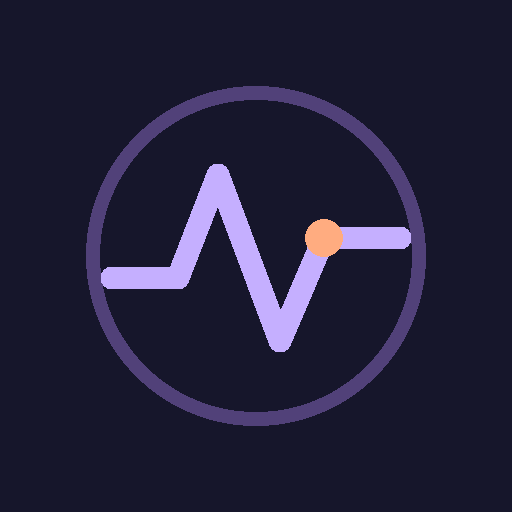
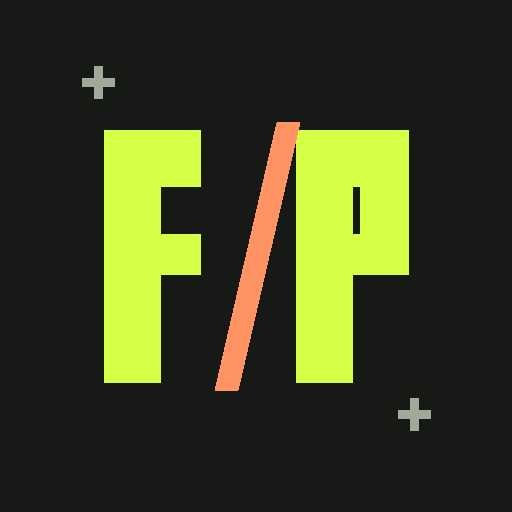
Redesign as a compact high-contrast pocket instrument

Changed region(s): [[0.1562, 0.1562, 0.8438, 0.8438], [0.7812, 0.7812, 0.8438, 0.8438], [0.1562, 0.125, 0.2188, 0.1875]]

diff --git a/style.css b/style.css
@@ -1,3 +1,7 @@
-:root{color-scheme:light;--ink:#20203e;--muted:#6d6883;--paper:#f4f2ff;--gold:#ae4326;--line:#dcd8eb;--green:#6243bc;font-family:system-ui,-apple-system,BlinkMacSystemFont,"Segoe UI",sans-serif;color:var(--ink);background:var(--paper)}*{box-sizing:border-box}body{margin:0;background:radial-gradient(ellipse at 90% 0%,#e0d8ff 0,transparent 55%);min-height:100svh}main{max-width:620px;margin:auto;padding:max(26px,env(safe-area-inset-top)) 22px max(24px,env(safe-area-inset-bottom))}header{display:flex;align-items:center;justify-content:space-between;margin-bottom:42px}.brand{font-weight:800;font-size:30px;letter-spacing:-1.5px;text-decoration:none;color:var(--ink)}.brand-mark{display:inline-grid;place-items:center;background:var(--ink);color:var(--paper);width:33px;height:36px;border-radius:10px;margin-right:10px;font-size:27px}.brand-dot{color:var(--gold)}.eyebrow{font-size:10px;letter-spacing:1.8px;font-weight:700}header>.eyebrow{color:var(--muted);font-size:9px}h1{font-family:Georgia,serif;font-size:clamp(35px,7vw,48px);font-weight:400;line-height:1.12;letter-spacing:-1.5px;margin:12px 0 30px}h1 em{color:var(--green);font-weight:400}.intro>.eyebrow{color:var(--gold)}nav{display:flex;background:#e6e1f3;padding:5px;border-radius:15px;margin-bottom:18px;gap:4px}button,input,select{-webkit-tap-highlight-color:transparent;font:inherit}button{cursor:pointer;touch-action:manipulation}button:focus-visible,input:focus-visible,select:focus-visible,a:focus-visible{outline:3px solid var(--gold);outline-offset:4px}.tab{width:50%;border:0;background:none;border-radius:11px;min-height:46px;font-weight:650;color:var(--muted)}.tab.active{background:var(--ink);color:#fff;box-shadow:0 3px 7px #20203e20}.panel{background:#fefcff;border:1px solid var(--line);padding:26px;border-radius:24px;box-shadow:0 12px 38px #20203e08}[hidden]{display:none!important}.beats{height:20px;display:flex;justify-content:center;gap:9px;margin:2px 0 24px}.beat{width:13px;height:13px;border-radius:50%;background:#e6e0f3;transition:background .06s,transform .06s}.beat.down{border:2px solid var(--gold)}.beat.on{background:var(--green);transform:scale(1.3)}.beat.down.on{background:var(--gold)}.tempo{display:flex;justify-content:space-between;align-items:center}.tempo>div{text-align:center}.tempo label{display:block;font-size:9px;letter-spacing:1.4px}.tempo input{display:block;width:160px;padding:0;text-align:center;border:0;background:none;font-size:84px;letter-spacing:-5px;line-height:1.2;font-weight:300;color:var(--ink);appearance:textfield;-moz-appearance:textfield}.tempo input::-webkit-inner-spin-button{appearance:none}.tempo #tempo-word{font-family:Georgia,serif;font-style:italic;color:var(--muted);font-size:17px}.round{border:1px solid var(--line);width:46px;height:46px;border-radius:50%;font-size:25px;color:var(--ink);background:transparent}input[type=range]{width:100%;accent-color:var(--green);margin:25px 0;height:32px}.settings{display:grid;grid-template-columns:1fr 1fr;gap:14px}.settings label{font-size:12px;color:var(--muted);font-weight:550;min-width:0}.settings select,.settings input{margin-top:8px;width:100%;height:48px;border:1px solid var(--line);border-radius:10px;background:#f5f2fc;padding:0 9px;color:var(--ink);font-size:16px;min-width:0}.check{font-size:12px;display:flex;align-items:center;gap:7px;flex-wrap:wrap;margin:18px 0 24px}.check input{accent-color:var(--green);width:18px;height:18px}.check span{font-size:10px;color:var(--muted);margin-left:auto}.actions{display:grid;grid-template-columns:1fr 1.6fr;gap:12px}.primary,.secondary{min-height:54px;border-radius:12px;font-weight:650;font-size:14px;padding:10px;border:0}.primary{background:var(--green);color:#fff}.primary.running{background:var(--ink)}.secondary{background:#ece7f7;color:var(--ink)}.full{width:100%;margin-top:8px}.hint{font-size:11px;color:var(--muted);line-height:1.6;text-align:center;margin:15px 0 0}.tuner-top{display:flex;justify-content:space-between;align-items:center}.badge{background:#ece7f7;border-radius:20px;padding:6px 9px;font-size:9px;letter-spacing:1px;color:var(--muted)}.note{text-align:center;font-size:93px;font-weight:350;line-height:1.25;margin-top:15px;min-height:116px;letter-spacing:-5px}.note sub{font-size:28px;vertical-align:baseline;letter-spacing:0;color:var(--muted);padding-left:5px}.pitch-detail{height:20px;text-align:center;font-size:13px;color:var(--muted);margin:0 0 24px}.gauge{height:42px;position:relative;border-bottom:1px solid var(--line);background:repeating-linear-gradient(90deg,transparent 0,transparent calc(10% - 1px),var(--line) calc(10% - 1px),var(--line) 10%)}.sweet-spot{position:absolute;left:45%;width:10%;height:100%;background:#e4dafc}.gauge-center{position:absolute;left:50%;height:100%;border-left:1px solid var(--green)}.needle{position:absolute;left:50%;height:48px;top:-4px;width:3px;background:var(--gold);border-radius:3px;transition:left .1s;opacity:0}.gauge-labels{display:flex;justify-content:space-between;font-size:10px;letter-spacing:1px;color:var(--muted);margin-top:10px}.tuning-status{text-align:center;font-weight:600;margin:23px 0}.tuning-status.good{color:var(--green)}.notice{font-size:12px;line-height:1.6;color:var(--gold);text-align:center;min-height:20px}footer{display:flex;align-items:center;justify-content:space-between;color:var(--muted);font-size:9px;letter-spacing:1.4px;margin-top:22px}footer button{background:none;border:0;color:var(--muted);padding:12px 0;font-size:12px;letter-spacing:0}aside{font-size:13px;line-height:1.7;color:var(--muted);border-top:1px solid var(--line);margin-top:20px;padding-top:16px}aside h2{color:var(--ink);font-family:Georgia,serif;font-size:23px;font-weight:400}a{color:var(--green)}.sr-only{position:absolute;width:1px;height:1px;overflow:hidden;clip-path:inset(50%)}@media(max-width:380px){main{padding-left:14px;padding-right:14px}.panel{padding:20px}header>.eyebrow{display:none}.tempo input{width:145px;font-size:76px}.check span{margin-left:0}header{margin-bottom:30px}}
-
-.brand{display:flex;align-items:center;font-size:25px;letter-spacing:-1px}.brand-icon{width:40px;height:40px;margin-right:9px;border-radius:12px}.brand-dot{padding:0 2px}h1{font-family:system-ui,sans-serif;font-weight:750;font-size:clamp(34px,7vw,46px);letter-spacing:-2px}h1 em{font-style:normal}header>.eyebrow{max-width:80px;text-align:right;line-height:1.6}details{margin-top:18px}summary{cursor:pointer;color:var(--green);font-size:13px;padding:14px 0;min-height:44px}details[open] summary{font-weight:700}
+/* A pocket instrument, not a landing page. Ink, signal yellow, registration marks. */
+:root{color-scheme:dark;--ink:#f1f2e9;--muted:#a2a89a;--paper:#171916;--gold:#ff9363;--line:#41483b;--green:#d5ff45;font-family:ui-monospace,SFMono-Regular,Consolas,monospace;color:var(--ink);background:var(--paper)}
+*{box-sizing:border-box}body{margin:0}main{width:min(100%,560px);margin:auto;padding:max(12px,env(safe-area-inset-top)) 18px max(16px,env(safe-area-inset-bottom))}header{display:flex;justify-content:space-between;align-items:center;height:42px;margin-bottom:12px}.brand{display:flex;align-items:center;gap:8px;font-family:system-ui,sans-serif;font-size:19px;font-weight:900;letter-spacing:-1px;color:var(--ink);text-decoration:none}.brand-icon{width:30px;height:30px}.brand-dot{color:var(--green);padding:0 3px}.serial{font-size:7px;line-height:1.5;color:var(--muted);text-align:right;letter-spacing:1px}nav{display:flex;border:1px solid var(--line);margin-bottom:16px}button,input,select{font:inherit;-webkit-tap-highlight-color:transparent}button{touch-action:manipulation;cursor:pointer}button:focus-visible,input:focus-visible,select:focus-visible,a:focus-visible,summary:focus-visible{outline:3px solid var(--gold);outline-offset:3px}.tab{width:50%;min-height:46px;border:0;border-radius:0;color:var(--muted);background:none;font-size:12px;text-transform:uppercase;letter-spacing:1px;font-weight:700}.tab.active{background:var(--green);color:var(--paper)}.tab.active:before{content:'↗ ';font-size:16px}.panel{position:relative;border:1px solid var(--line);border-top:3px solid var(--green);padding:18px;background:#1d211a}.panel:before,.panel:after{content:'+';position:absolute;font-size:16px;color:var(--green);top:-12px;line-height:16px;pointer-events:none}.panel:before{left:-5px}.panel:after{right:-5px}[hidden]{display:none!important}.eyebrow{font-size:10px;letter-spacing:2px;font-weight:600;color:var(--muted)}.beats{height:20px;display:flex;justify-content:center;gap:8px;margin-bottom:12px}.beat{height:10px;flex:1;max-width:54px;background:#434b39;transform:skewX(-20deg);border-bottom:2px solid transparent}.beat.down{border-bottom-color:var(--green)}.beat.on{background:var(--green)}.beat.down.on{background:var(--gold)}.tempo{display:flex;align-items:center;justify-content:space-between;gap:6px}.tempo>div{text-align:center;min-width:0}.tempo label{display:block}.tempo input{display:block;width:190px;text-align:center;background:none;color:var(--green);border:0;padding:0;font-family:system-ui,sans-serif;font-size:112px;font-weight:850;letter-spacing:-9px;line-height:1.1;appearance:textfield;font-variant-numeric:tabular-nums}.tempo input::-webkit-inner-spin-button{appearance:none}#tempo-word{font-size:10px;letter-spacing:3px;text-transform:uppercase;color:var(--muted)}.round{height:48px;width:48px;flex-shrink:0;border:1px solid var(--line);border-radius:0;background:none;color:var(--ink);font-size:26px}input[type=range]{width:100%;height:40px;accent-color:var(--green);margin:10px 0 16px;cursor:pointer}.settings{display:grid;grid-template-columns:1fr 1fr;gap:12px}.settings label{font-size:10px;letter-spacing:.5px;color:var(--muted);min-width:0}.settings select,.settings input{display:block;width:100%;height:46px;margin-top:7px;border:1px solid var(--line);border-radius:0;background:#171916;color:var(--ink);padding:0 8px;font-size:16px;min-width:0}.check{display:flex;flex-wrap:wrap;align-items:center;gap:7px;font-size:11px;margin:12px 0 16px;min-height:32px}.check input{height:22px;width:22px;accent-color:var(--green);margin:0}.check span{color:var(--muted);font-size:9px;margin-left:auto}.actions{display:grid;grid-template-columns:1fr 1.6fr;gap:10px}.primary,.secondary{min-height:56px;border:1px solid var(--line);border-radius:0;padding:10px 7px;font-size:12px;font-weight:750}.primary{background:var(--green);color:#171916;border-color:var(--green)}.primary.running{background:var(--gold);border-color:var(--gold)}.secondary{background:transparent;color:var(--ink)}button:active{filter:brightness(.85)}button:disabled{opacity:.65}.full{width:100%;margin-top:14px}.hint{font-size:10px;line-height:1.5;color:var(--muted);text-align:center;margin:12px 0 0}.tuner-top{display:flex;justify-content:space-between;align-items:center}.badge{color:var(--green);font-size:9px;border:1px solid var(--line);padding:6px}.note{text-align:center;font-family:system-ui,sans-serif;font-size:112px;line-height:1.2;font-weight:850;color:var(--green);letter-spacing:-6px;margin:8px 0 0;min-height:134px}.note sub{font-size:30px;vertical-align:baseline;letter-spacing:0;color:var(--muted);margin-left:5px}.pitch-detail{height:20px;text-align:center;color:var(--muted);font-size:12px;margin:0 0 20px}.gauge{height:44px;position:relative;border-bottom:1px solid var(--line);background:repeating-linear-gradient(90deg,transparent 0,transparent calc(10% - 1px),var(--line) calc(10% - 1px),var(--line) 10%)}.sweet-spot{position:absolute;left:45%;width:10%;height:100%;background:#d5ff4520}.gauge-center{position:absolute;left:50%;height:100%;border-left:1px solid var(--green)}.needle{position:absolute;left:50%;height:50px;top:-3px;width:3px;background:var(--gold);transition:left .1s;opacity:0}.gauge-labels{display:flex;justify-content:space-between;color:var(--muted);font-size:10px;margin-top:8px}.tuning-status{text-align:center;font-size:12px;min-height:32px;margin:18px 0 12px;line-height:1.5}.tuning-status.good{color:var(--green)}.notice{font-size:10px;line-height:1.5;color:var(--gold);text-align:center;margin:10px 0}.notice:empty{display:none}footer{display:flex;align-items:center;gap:14px;border-top:1px solid var(--line);margin-top:24px;padding-top:16px}.footer-mark{font-family:system-ui,sans-serif;letter-spacing:-5px;font-size:52px;font-weight:950;line-height:1;transform:skewY(-7deg);color:var(--green)}.footer-mark span{font-size:25px;vertical-align:top;letter-spacing:0}footer p{font-size:10px;line-height:1.6;letter-spacing:1px}.footer-index{margin-left:auto;font-size:8px;line-height:1.7;color:var(--muted)}details{margin-top:10px}summary{min-height:44px;padding:14px 0;font-size:11px;color:var(--muted);cursor:pointer}aside{font:13px/1.7 system-ui,sans-serif;color:var(--muted);border-top:1px solid var(--line);padding:12px 0}aside h2{font-size:20px;color:var(--ink)}a{color:var(--green)}.sr-only{position:absolute;width:1px;height:1px;overflow:hidden;clip-path:inset(50%)}
+@media(min-width:700px){main{padding-top:32px}.panel{padding:26px}.tempo input{font-size:136px;width:240px}header{margin-bottom:22px}.brand{font-size:23px}nav{margin-bottom:22px}}
+@media(max-height:740px) and (max-width:699px){main{padding-top:max(8px,env(safe-area-inset-top));padding-left:14px;padding-right:14px}header{height:34px;margin-bottom:8px}nav{margin-bottom:12px}.panel{padding:14px}.beats{margin-bottom:6px;height:16px}.tempo input{font-size:90px;width:164px}input[type=range]{margin:6px 0 10px;height:32px}.check{margin:8px 0 10px}.hint{margin-top:8px;font-size:9px}.note{font-size:96px;min-height:116px}.pitch-detail{margin-bottom:12px}.tuning-status{margin-top:12px}.full{margin-top:10px}footer{margin-top:16px}}
+@media(max-width:350px){.brand{font-size:16px}.serial{font-size:6px}.tempo input{font-size:82px;width:144px;letter-spacing:-7px}.round{width:44px;height:44px}.check span{margin-left:29px}.actions{grid-template-columns:1fr 1.35fr}.primary,.secondary{font-size:11px}.settings{gap:8px}}
+@media(prefers-reduced-motion:reduce){*{transition:none!important}}

diff --git a/index.html b/index.html
@@ -2,7 +2,7 @@
 <html lang="en">
 <head>
 <meta charset="utf-8"><meta name="viewport" content="width=device-width, initial-scale=1, viewport-fit=cover">
-<meta name="theme-color" content="#16162b"><meta name="apple-mobile-web-app-capable" content="yes">
+<meta name="theme-color" content="#171916"><meta name="apple-mobile-web-app-capable" content="yes">
 <meta name="apple-mobile-web-app-status-bar-style" content="black-translucent">
 <meta name="description" content="A pocket practice companion: precise metronome and private, on-device chromatic tuner.">
 <meta property="og:type" content="website"><meta property="og:title" content="Pulse &amp; Pitch"><meta property="og:description" content="Find your rhythm. Find your sound. Your pocket metronome and chromatic tuner."><meta property="og:image" content="https://brucethebutler.github.io/pulse-and-pitch/assets/social-banner.png"><meta name="twitter:card" content="summary_large_image">
@@ -11,17 +11,16 @@
 </head>
 <body>
 <main>
-<header><a class="brand" href="./" aria-label="Pulse and Pitch home"><img class="brand-icon" src="icon.svg" alt=""> pulse<span class="brand-dot">&</span>pitch</a><span class="eyebrow">STAY IN THE GROOVE</span></header>
-<div class="intro"><p class="eyebrow">YOUR POCKET PRACTICE COMPANION</p><h1>Find your rhythm.<br><em>Find your sound.</em></h1></div>
+<header><a class="brand" href="./" aria-label="Pulse and Pitch home"><img class="brand-icon" src="icon.svg" alt=""><span>PULSE<span class="brand-dot">/</span>PITCH</span></a><span class="serial" aria-hidden="true">P—01<br>POCKET INSTRUMENT</span></header>
 <nav aria-label="Practice tools" role="tablist"><button id="tab-metronome" class="tab active" aria-selected="true" aria-controls="metronome" role="tab">Metronome</button><button id="tab-tuner" class="tab" tabindex="-1" aria-selected="false" aria-controls="tuner" role="tab">Tuner</button></nav>
 <section id="metronome" class="panel" role="tabpanel" aria-labelledby="tab-metronome">
 <div id="beats" class="beats" aria-hidden="true"></div>
 <div class="tempo"><button id="slower" class="round" aria-label="Decrease tempo">−</button><div><label for="bpm" class="eyebrow">BEATS / MIN</label><input id="bpm" type="number" min="30" max="240" value="100" inputmode="numeric"><span id="tempo-word">Andante</span></div><button id="faster" class="round" aria-label="Increase tempo">+</button></div>
 <label class="sr-only" for="tempo-slider">Tempo</label><input id="tempo-slider" type="range" min="30" max="240" value="100">
-<div class="settings"><label>Time signature<select id="meter"><option value="4,4">4 / 4</option><option value="2,4">2 / 4</option><option value="3,4">3 / 4</option><option value="5,4">5 / 4</option><option value="6,8">6 / 8</option><option value="9,8">9 / 8</option><option value="12,8">12 / 8</option></select></label><label>Subdivision<select id="subdivision"><option value="1">None</option><option value="2">Two per beat</option><option value="3">Three per beat</option><option value="4">Four per beat</option></select></label></div>
+<div class="settings"><label>Time signature<select id="meter"><option value="4,4">4 / 4</option><option value="2,4">2 / 4</option><option value="3,4">3 / 4</option><option value="5,4">5 / 4</option><option value="6,8">6 / 8</option><option value="9,8">9 / 8</option><option value="12,8">12 / 8</option></select></label><label>Subdivision<select id="subdivision"><option value="1">None</option><option value="2">2 per beat</option><option value="3">3 per beat</option><option value="4">4 per beat</option></select></label></div>
 <label class="check"><input id="accent" type="checkbox" checked> Accent the first beat <span id="meter-hint">Quarter-note beats</span></label>
 <div class="actions"><button id="tap" class="secondary">Tap tempo</button><button id="start" class="primary">Start metronome</button></div>
-<p class="hint">Tap four times to set the tempo. Keep tapping to refine it.</p>
+<p class="hint">Four taps to lock in. Keep tapping to refine.</p>
 </section>
 <section id="tuner" class="panel" role="tabpanel" aria-labelledby="tab-tuner" hidden>
 <div class="tuner-top"><span class="eyebrow">CHROMATIC TUNER</span><span id="listening" class="badge">MIC OFF</span></div>
@@ -32,7 +31,7 @@
 <p class="hint" id="transpose-hint">Concert B♭ is shown as written C.</p><button id="listen" class="primary full">Enable microphone</button><p class="hint">Audio stays on your device. Nothing is recorded or uploaded.</p>
 </section>
 <p id="notice" class="notice" role="status"></p>
-<footer><span>LESS FUSS. MORE MUSIC.</span></footer>
-<details id="help"><summary>How to use Pulse &amp; Pitch</summary><aside><h2>Made for the music stand.</h2><p>On iPhone, open in Safari. Choose Share → Add to Home Screen for an app-like experience. After the first online load, the app works offline.</p><p>Keep the app in the foreground and the phone unlocked. We request screen wake lock where available; iOS can still interrupt audio. Start sound or microphone with a tap.</p><p>For tuning, play one sustained note at a moderate volume, with the microphone a little away from the bell. ±5 cents is marked in tune. The frequency always shows the actual sounding pitch; the note name follows your transposition setting. The metronome stops when you switch to the tuner.</p><p>Some Bluetooth audio devices add latency or change microphone quality. The built-in microphone and speaker are the best starting point. Headphones help in a noisy room. This is a practice aid, not a laboratory reference.</p><p><a href="https://github.com/BruceTheButler/pulse-and-pitch">Source & feedback on GitHub</a></p></aside></details>
+<footer><div class="footer-mark" aria-hidden="true">P/P<span>↗</span></div><p>KEEP TIME.<br>MAKE WAVES.</p><span class="footer-index">NO CLOUD.<br>JUST SOUND.</span></footer>
+<details id="help"><summary>How to use Pulse &amp; Pitch</summary><aside><h2>Made for the music stand.</h2><p>On iPhone, open in Safari. Choose Share → Add to Home Screen for an app-like experience. After the first online load, the app works offline.</p><p>Keep the app in the foreground and the phone unlocked. We request screen wake lock where available; iOS can still interrupt audio. Start sound or microphone with a tap.</p><p>For tuning, play one sustained note at a moderate volume, with the microphone a little away from the instrument. ±5 cents is marked in tune. The frequency always shows the actual sounding pitch; the note name follows your transposition setting. The metronome stops when you switch to the tuner.</p><p>Some Bluetooth audio devices add latency or change microphone quality. The built-in microphone and speaker are the best starting point. Headphones help in a noisy room. This is a practice aid, not a laboratory reference.</p><p><a href="https://github.com/BruceTheButler/pulse-and-pitch">Source & feedback on GitHub</a></p></aside></details>
 </main><script type="module" src="app.js"></script>
 </body></html>

diff --git a/sw.js b/sw.js
@@ -1,4 +1,4 @@
-const CACHE = 'pulse-pitch-v6';
+const CACHE = 'pulse-pitch-v7';
 const ASSETS = ['./','./index.html','./style.css','./app.js','./pitch.js','./tempo.js','./manifest.webmanifest','./icon.svg','./icon-192.png','./icon-512.png'];
 self.addEventListener('install', event => { event.waitUntil(caches.open(CACHE).then(cache => cache.addAll(ASSETS))); });
 self.addEventListener('activate', event => { event.waitUntil(caches.keys().then(keys => Promise.all(keys.filter(key => (key.startsWith('brass-') || key.startsWith('pulse-pitch-')) && key !== CACHE).map(key => caches.delete(key))))); });

diff --git a/README.md b/README.md
@@ -4,6 +4,10 @@ An iPhone-first metronome and single-note chromatic tuner for everyday music pra
 
 **Live app:** https://brucethebutler.github.io/pulse-and-pitch/
 
+## Interface
+
+A compact, high-contrast instrument panel: oversized readings, signal-yellow controls, angled beat markers and a custom geometric P/P icon. No introductory hero pushes the tools down the screen. Essential controls are designed to fit small portrait phone viewports; optional branding and help sit below them. Layout is responsive and supports safe-area insets and reduced motion.
+
 ## Features
 
 - Metronome from 30–240 BPM, with tap tempo that averages recent taps rather than just the last two.
